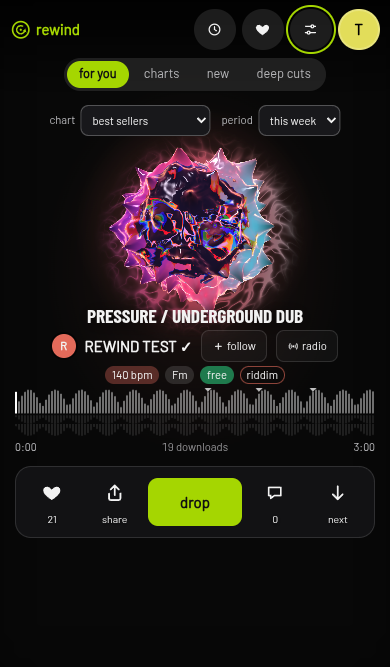
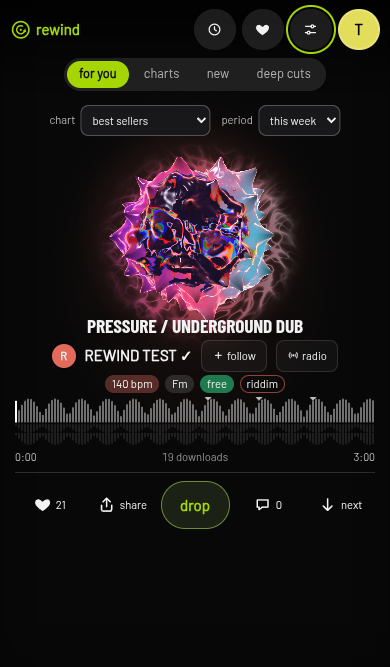
fix(ui): lighten and align player controls

diff --git a/web/src/style.css b/web/src/style.css
@@ -1349,16 +1349,6 @@ body.zen .content { gap: 0.3rem; }
 .time .cur { grid-column: 1; grid-row: 1; justify-self: start; }
 .time .counts { grid-column: 2; grid-row: 1; text-align: center; overflow-wrap: anywhere; }
 .time .dur { grid-column: 3; grid-row: 1; justify-self: end; }
-.time .to-drop {
-  grid-column: 1 / -1; grid-row: 2; justify-self: center;
-  margin: 0.25rem 0 0; min-width: 8rem; min-height: 44px;
-  justify-content: center; padding: 0.5rem 1.5rem;
-  font: 600 1rem/1.2 var(--font); border-radius: 999px;
-  background: color-mix(in oklab, var(--card-accent) 18%, #111);
-  border-color: color-mix(in oklab, var(--card-accent) 65%, #555);
-  color: var(--fg);
-}
-.time .to-drop:hover { background: color-mix(in oklab, var(--card-accent) 35%, #111); color: var(--fg); }
 @media (max-width: 640px) {
   .bar-end { gap: 0.45rem; }
   .bar-end .icon-btn, .avatar-btn { width: 2.75rem; height: 2.75rem; }
@@ -1392,23 +1382,25 @@ button.danger:not(.link) { background: var(--danger); color: #111; }
 /* One listening console, aligned to the waveform on every screen. */
 .content .actions {
   position: relative; inset: auto; translate: none; transform: none;
-  width: 100%; display: grid; grid-template-columns: 1fr 1fr 1.6fr 1fr 1fr;
-  align-items: center; gap: 0.5rem; margin-top: 0.75rem; padding: 0.75rem;
-  border: 1px solid var(--line); border-radius: 16px;
-  background: #141416d9; backdrop-filter: blur(16px);
+  width: 100%; display: grid; grid-template-columns: repeat(5, minmax(0, 1fr));
+  align-items: center; gap: 0.5rem; margin-top: 0.35rem; padding: 0.75rem 0 0;
+  border: none; border-top: 1px solid #ffffff26; border-radius: 0;
+  background: none;
 }
-.content .act { min-width: 0; min-height: 56px; justify-content: center; gap: 0.25rem; border-radius: 8px; }
-.content .act .ring { width: 2rem; height: 2rem; background: none; box-shadow: none; border: none; backdrop-filter: none; }
-.content .act:hover { background: var(--glass); }
+.content .act { min-width: 0; min-height: 48px; flex-direction: row; justify-content: center; gap: 0.4rem; border-radius: 999px; font-size: 0.85rem; color: var(--fg); }
+.content .act .ring { width: 1.25rem; height: 1.25rem; background: none; box-shadow: none; border: none; backdrop-filter: none; }
+.content .act svg { width: 1.15rem; height: 1.15rem; }
+.content .act .n { min-height: 0; line-height: 1.2; text-shadow: none; }
+.content .act:hover { background: #ffffff0d; }
 .content .act.like.on { color: var(--accent); background: color-mix(in oklab, var(--accent) 10%, transparent); }
 .content .act.like.on .ring { color: inherit; background: none; }
 .content .actions .to-drop {
   margin: 0; min-width: 0; min-height: 48px; padding: 0.5rem;
-  border-radius: 10px; background: var(--accent); border: 1px solid transparent;
-  color: #111; justify-content: center; font: 600 1rem/1.2 var(--font);
+  border-radius: 999px; background: color-mix(in oklab, var(--accent) 8%, #121412); border: 1px solid color-mix(in oklab, var(--accent) 55%, #333);
+  color: var(--accent); justify-content: center; font: 600 1rem/1.2 var(--font);
 }
-.content .actions .to-drop:hover { background: var(--accent-hover); }
-.content .actions .to-drop:disabled { background: #292b28; border-color: var(--line); color: var(--muted); cursor: default; }
+.content .actions .to-drop:hover { background: color-mix(in oklab, var(--accent) 18%, #121412); border-color: var(--accent); }
+.content .actions .to-drop:disabled { background: #ffffff05; border-color: var(--line); color: var(--muted); cursor: default; }
 .content .time { gap: 0.5rem; }
 .byline .pill { min-height: 32px; padding: 0.3rem 0.7rem; border-radius: 8px; border-color: var(--line); background: #ffffff09; }
 body.zen .content .actions { display: none; }
@@ -1418,7 +1410,8 @@ body.zen .content .actions { display: none; }
 }
 @media (max-width: 640px) {
   .content { margin-bottom: 4.5rem; }
-  .content .actions { padding: 0.45rem; gap: 0.25rem; margin-top: 0.5rem; }
+  .content .actions { padding: 0.5rem 0 0; gap: 0.25rem; margin-top: 0.25rem; }
+  .content .act { gap: 0.25rem; font-size: 0.75rem; }
   #up-next { bottom: max(0.8rem, env(safe-area-inset-bottom)); }
   #toast { bottom: calc(max(0.8rem, env(safe-area-inset-bottom)) + 4.6rem); }
 }

diff --git a/docs/redesign/README.md b/docs/redesign/README.md
@@ -11,3 +11,5 @@ Run the frontend with `cd web && bun install --frozen-lockfile && bun run dev`. 
 The chromatic artwork material, artist accents and rounded controls have been restored following visual feedback. The drop button has a centered row beneath the waveform, no arrow, and a 44px minimum height. Chart selectors have dedicated clearance on short mobile screens.
 
 The player now uses one waveform-aligned action console on desktop and mobile, with drop centered. A track without detected drops keeps that control disabled to preserve the layout. Primary controls use pl8list's public Pico lime colors (`#a5d601`, hover `#b2e51a`); artist colors still drive the artwork and waveform. Checked desktop and short-mobile layouts with chart selectors visible; the synthetic Chromium fixture reported no page errors.
+
+Control-row refinement: removed the enclosing panel, aligned icons with their labels/counts, and replaced the solid drop fill with a subdued lime outline. The row retains 48px control heights. Updated desktop/mobile Chromium fixture screenshots; build and TypeScript checks pass.
